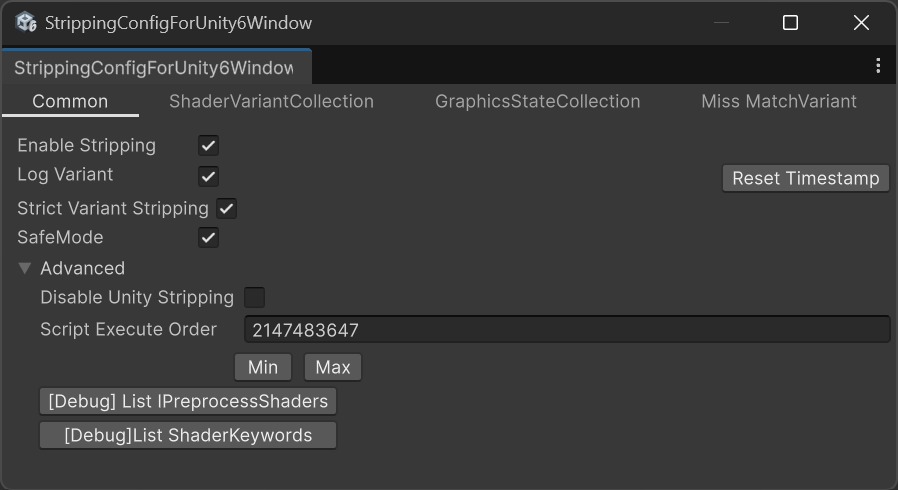
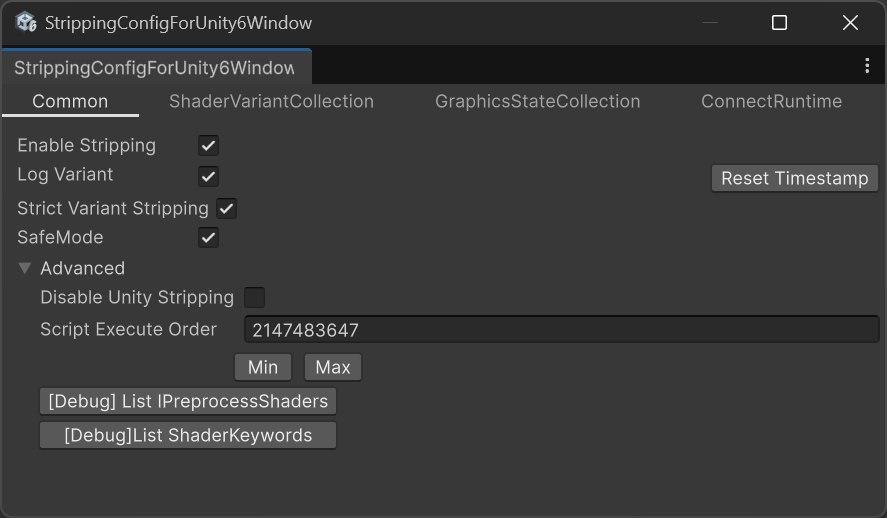
update safe mode and doc

diff --git a/Editor/UI/ConnectRuntimeUI.cs b/Editor/UI/ConnectRuntimeUI.cs
@@ -1,3 +1,4 @@
+using System;
 using System.IO;
 using System.Runtime.Remoting.Messaging;
 using UnityEditor;
@@ -12,10 +13,9 @@ using UnityEngine.UIElements;
 namespace UTJ.ShaderVariantStripping
 {
 
-    public class MisssingMatchUI
+    public class ConnectRuntimeUI
     {
         IConnectionState attachProfilerState;
-
         public void OnEnable(EditorWindow window,IMGUIContainer iMGUIContainer)
         {
             attachProfilerState = PlayerConnectionGUIUtility.GetConnectionState(window, OnConnected);
@@ -39,10 +39,20 @@ namespace UTJ.ShaderVariantStripping
             PlayerConnectionGUILayout.ConnectionTargetSelectionDropdown(attachProfilerState);
 
             EditorGUILayout.EndHorizontal();
-            if ( GUILayout.Button("Get FromConnection"))
+            if ( GUILayout.Button("Create GraphicsStateCollection from Miss Match Variant"))
             {
                 CreateGSCFromMissMatchLog.Instance.SendRequest();
             }
+#if STRIP_ENABLE_AUTO_GSC
+
+            EditorGUILayout.LabelField("");
+            EditorGUILayout.LabelField("Auto GraphicsStateCollection");
+            if(GUILayout.Button("Recieve GraphicsStateCollection from Player"))
+            {
+                EditorConnection.instance.Send(CreateGSCFromMissMatchLog.RequestSendGCS, CreateGSCFromMissMatchLog.dummySendData);
+            }
+#endif
+
         }
     }
 
@@ -50,6 +60,10 @@ namespace UTJ.ShaderVariantStripping
     {
         public static readonly System.Guid RequestSendAllMissMatch = new System.Guid("88AD4F8F-7C5E-410F-8EED-FF569CCA7C65");
         public static readonly System.Guid SendAllMissMatch = new System.Guid("88AD4F8F-7C5E-410F-8EED-FF569CCA7C66");
+
+#if STRIP_ENABLE_AUTO_GSC
+        public static readonly System.Guid RequestSendGCS = new System.Guid("88AD4F8F-7C5E-410F-8EED-FF569CCA7C67");
+#endif
 
         public static readonly byte[] dummySendData = new byte[0];
 
@@ -75,9 +89,22 @@ namespace UTJ.ShaderVariantStripping
         private static void OnRecieveAllMissMatch(MessageEventArgs messageEventArgs)
         {
             var str = System.Text.UTF8Encoding.UTF8.GetString( messageEventArgs.data );
-            System.IO.File.WriteAllText("test.txt", str);
             ExecuteRecivedString(str);
+            CreateMissMatchLog(str);
         }
+
+        private static void CreateMissMatchLog(string str)
+        {
+            var time = DateTime.Now;
+            string dir = "ShaderVariants/MissMatch";
+            if (!System.IO.Directory.Exists(dir))
+            {
+                System.IO.Directory.CreateDirectory(dir);
+            }
+            string path = dir + "/" + time.ToString("yyyyMMdd_HHmmss") + ".log";
+            System.IO.File.WriteAllText(path, str);
+        }
+
 
         public static void ExecuteRecivedString(string str)
         {
@@ -157,7 +184,7 @@ namespace UTJ.ShaderVariantStripping
 
         private static string GetGSCPathName(RuntimePlatform platform,GraphicsDeviceType type)
         {
-            const string dir = "Assets/MissingVariant";
+            const string dir = "Assets/GraphicsStateCollection/MissingVariant";
             if (!System.IO.Directory.Exists(dir))
             {
                 System.IO.Directory.CreateDirectory(dir);

diff --git a/Runtime/ShaderVariantMissMatchBehaviour.cs b/Runtime/ShaderVariantMissMatchBehaviour.cs
@@ -1,4 +1,4 @@
-#if DEVELOPMENT_BUILD || UNITY_EDITOR
+#if (DEVELOPMENT_BUILD && !STRIP_DIABLE_AUTO_GCS_COLLECTION || true)
 /**
 MIT License
 
@@ -26,6 +26,7 @@ SOFTWARE.
 using System.Collections.Generic;
 using System.Text;
 using UnityEngine;
+using UnityEngine.Experimental.Rendering;
 using UnityEngine.Networking.PlayerConnection;
 using UnityEngine.Rendering;
 using PlayerConnection = UnityEngine.Networking.PlayerConnection.PlayerConnection;
@@ -39,6 +40,11 @@ namespace UTJ.ShaderVariantStripping.Runtime
 
         public static readonly System.Guid RequestSendAllMissMatch = new System.Guid("88AD4F8F-7C5E-410F-8EED-FF569CCA7C65");
         public static readonly System.Guid SendAllMissMatch = new System.Guid("88AD4F8F-7C5E-410F-8EED-FF569CCA7C66");
+
+
+#if STRIP_ENABLE_AUTO_GSC
+        public static readonly System.Guid RequestSendGCS = new System.Guid("88AD4F8F-7C5E-410F-8EED-FF569CCA7C67");
+#endif
 
         public struct ShaderNotFoundError : IComparer<ShaderNotFoundError>
         {
@@ -229,6 +235,10 @@ namespace UTJ.ShaderVariantStripping.Runtime
         private GraphicsDeviceType currentGraphicDeviceType;
         private RuntimePlatform currentPlatform;
 
+#if STRIP_ENABLE_AUTO_GSC
+        private GraphicsStateCollection graphicsStateCollection;
+#endif
+
         [RuntimeInitializeOnLoadMethod(RuntimeInitializeLoadType.BeforeSceneLoad)]
         public static void Create()
         {
@@ -247,6 +257,12 @@ namespace UTJ.ShaderVariantStripping.Runtime
             instance = this;
             this.currentGraphicDeviceType = SystemInfo.graphicsDeviceType;
             this.currentPlatform = Application.platform;
+
+#if STRIP_ENABLE_AUTO_GSC
+            this.graphicsStateCollection = new GraphicsStateCollection();
+            this.graphicsStateCollection.BeginTrace();
+            PlayerConnection.instance.Register(RequestSendGCS, OnRecieveSendGCSRequest);
+#endif
 
             Application.logMessageReceivedThreaded += OnHandleLog;
             PlayerConnection.instance.Register(RequestSendAllMissMatch, OnRecieveSendAllMissMatchRequest);
@@ -271,6 +287,28 @@ namespace UTJ.ShaderVariantStripping.Runtime
             }
             PlayerConnection.instance.Send(SendAllMissMatch,message);
         }
+
+
+#if STRIP_ENABLE_AUTO_GSC
+        private void OnRecieveSendGCSRequest(MessageEventArgs args)
+        {
+            System.Text.StringBuilder sb = new StringBuilder(128);
+            var dateTime = System.DateTime.Now;
+
+            sb.Append("GraphicsStateCollection/Runtime/").
+                AppendFormat("{0:D4}{1:D2}{2:D2}",dateTime.Year,dateTime.Month,dateTime.Day).Append("-").
+                AppendFormat("{0:D2}{1:D2}{2:D2}", dateTime.Hour, dateTime.Minute, dateTime.Second).
+                Append("-").Append(currentPlatform).Append("-").Append(this.currentGraphicDeviceType);
+
+
+            this.graphicsStateCollection.EndTrace();
+
+            this.graphicsStateCollection.SendToEditor(sb.ToString());
+
+            this.graphicsStateCollection.BeginTrace();
+        }
+#endif
+
 
         private void BuildStringBuilder(StringBuilder sb)
         {

diff --git a/Editor/StripProcessShaders.cs b/Editor/StripProcessShaders.cs
@@ -122,15 +122,15 @@ namespace UTJ.ShaderVariantStripping
                 shaderVariantStripLogger.LogAllInVariantColllection(shader, snippet, shaderCompilerData,false);
                 return;
             }
+            this.platformsBuffer.Clear();
 
             double startTime = EditorApplication.timeSinceStartup;
             int startVariants = shaderCompilerData.Count;
 
             ShaderKeywordMaskGetterPerSnippet maskGetter = new ShaderKeywordMaskGetterPerSnippet(shader, snippet);
-//            if (StripShaderConfig.IgnoreStageOnlyKeyword)
-            {
-                maskGetter.ConstructOnlyKeyword();
-            }
+            maskGetter.ConstructOnlyKeyword();
+
+
             shaderVariantStripLogger.ClearStringBuffers();
 
             bool isExistShader = false;
@@ -194,7 +194,17 @@ namespace UTJ.ShaderVariantStripping
             {
                 bool isExistVariant = false;
 
-
+                if (StripShaderConfig.SafeMode)
+                {
+                    var platform = shaderCompilerData[i].shaderCompilerPlatform;
+                    if (!this.platformsBuffer.Contains(platform))
+                    {
+                        this.platformsBuffer.Add(platform);
+                        isExistVariant = true;
+                    }
+                }
+                
+                
                 if (StripShaderConfig.UseGSC && !isExistVariant)
                 {
                     gcsConditionData.buildTarget = shaderCompilerData[i].buildTarget;
@@ -221,14 +231,6 @@ namespace UTJ.ShaderVariantStripping
                     shaderVariantStripLogger.AppendExcludeShaderInfo(shader, snippet, shaderCompilerData[i]);
                 }
 
-            }
-
-            // safe mode
-            if(StripShaderConfig.SafeMode && compileResultBuffer.Count == 0)
-            {
-                this.ExecuteSafeMode(shader, snippet, shaderCompilerData);
-                shaderVariantStripLogger.LogResult(shader, snippet, shaderCompilerData, maskGetter, startTime, startVariants);
-                return;
             }
 
             // CreateList             

diff --git a/Editor/UI/StrippingConfigForUnity6Window.cs b/Editor/UI/StrippingConfigForUnity6Window.cs
@@ -32,8 +32,8 @@ namespace UTJ.ShaderVariantStripping
         private ListView excludeGSCListView;
         private Toggle safeMode;
 
-        private IMGUIContainer missMatchImgui;
-        private MisssingMatchUI misssingMatchUI = new MisssingMatchUI();
+        private IMGUIContainer connectRuntimeImgui;
+        private ConnectRuntimeUI connectRuntimeUI = new ConnectRuntimeUI();
 
 
         private Button executeOrderMinBtn;
@@ -83,7 +83,7 @@ namespace UTJ.ShaderVariantStripping
             this.addExcludeGSCBtn = this.rootVisualElement.Q<Button>("AppendExcludeGSCBtn");
             this.excludeGSCListView = this.rootVisualElement.Q<ListView>("ExcludeGSCList");
             this.safeMode = this.rootVisualElement.Q<Toggle>("SafeMode");
-            this.missMatchImgui = this.rootVisualElement.Q<IMGUIContainer>("MissMatchIMGUI");
+            this.connectRuntimeImgui = this.rootVisualElement.Q<IMGUIContainer>("ConnectRuntimeImgui");
 
             this.enableToggle.SetValueWithoutNotify(StripShaderConfig.IsEnable);
             this.logToggle.SetValueWithoutNotify(StripShaderConfig.IsLogEnable);
@@ -91,7 +91,7 @@ namespace UTJ.ShaderVariantStripping
             this.disableUnityStrip.SetValueWithoutNotify(StripShaderConfig.DisableUnityStrip);
             this.orderIntField.SetValueWithoutNotify(StripShaderConfig.Order);
 
-            misssingMatchUI.OnEnable(this, this.missMatchImgui);
+            connectRuntimeUI.OnEnable(this, this.connectRuntimeImgui);
 
             //from U6
             this.useShaderVariantCollection.SetValueWithoutNotify(StripShaderConfig.UseSVC);
@@ -337,7 +337,7 @@ namespace UTJ.ShaderVariantStripping
         {
             StripShaderConfig.SetExcludeVariantCollection(this.svcAssets);
             StripShaderConfig.SetExcludeGSC(this.gscAssets);
-            this.misssingMatchUI.OnDisable(this.missMatchImgui);
+            this.connectRuntimeUI.OnDisable(this.connectRuntimeImgui);
         }
     }
 }

diff --git a/README.ja.md b/README.ja.md
@@ -72,8 +72,8 @@ Shaderのキーワードが、どのStageで有効になっているかデバッ
 ### Exclude Stripping Rule
 ここで指定されたGraphicsStateCollectionアセットは対象外となり、無視します。
 
-## Miss MathVariantタブ
-![alt text](Documentation~/Config_Strip_Missmatch.png) <br />
+## Connect Runtimeタブ
+![alt text](Documentation~/Config_Strip_ConnectRuntime.png) <br />
 PlayerSettingsの「Strict shader variant matching 」を有効にしたDevelopmentBuildから、ミスマッチが起きたShaderVariantを収集して、ダミーのGraphicsStateCollectionを作るためのオプションです。
 
 ### TargetPlayer
@@ -88,3 +88,18 @@ DevelopmentBuildした対象を指定します。
 ## Strip処理について
 こちらはスクリプタブルシェーダーバリアントの除去を使っています<br />
 https://blogs.unity3d.com/jp/2018/05/14/stripping-scriptable-shader-variants/
+
+## Strip処理が行われない場合
+Incrementalビルドによって、IPreprocessShaders.OnPorocessShaderが呼び出されないことがあります。<br />
+https://docs.unity3d.com/6000.0/Documentation/Manual/incremental-build-pipeline.html <br />
+<br />
+もしそのような場合はCleanBuildをお試しください
+
+![alt text](Documentation~/CleanBuild.png) <br />
+
+## ワークフローの提唱
+GraphicsStateCollectionを構築して、より良いStripをするための提唱です。
+
+1.
+2.
+3.

diff --git a/README.md b/README.md
@@ -72,8 +72,8 @@ Only consider GraphicsStateCollection created on the same platform as the build 
 ### Exclude Stripping Rule
 The GraphicsStateCollection assets specified here will be excluded and ignored.
 
-## Miss MathVariant Tab
-![alt text](Documentation~/Config_Strip_Missmatch.png) <br />
+## Connect Runtime  Tab
+![alt text](Documentation~/Config_Strip_ConnectRuntime.png) <br />
 This option collects mismatched ShaderVariants from DevelopmentBuild with “Strict shader variant matching” enabled in PlayerSettings and creates a dummy GraphicsStateCollection.
 
 ### TargetPlayer
@@ -84,4 +84,4 @@ Press this button to generate GraphicsStateCollection under Assets/MissMatchVari
 <br />
 
 # Reference：<br />
-https://blogs.unity3d.com/jp/2018/05/14/stripping-scriptable-shader-variants/
+https://unity.com/blog/engine-platform/stripping-scriptable-shader-variants
